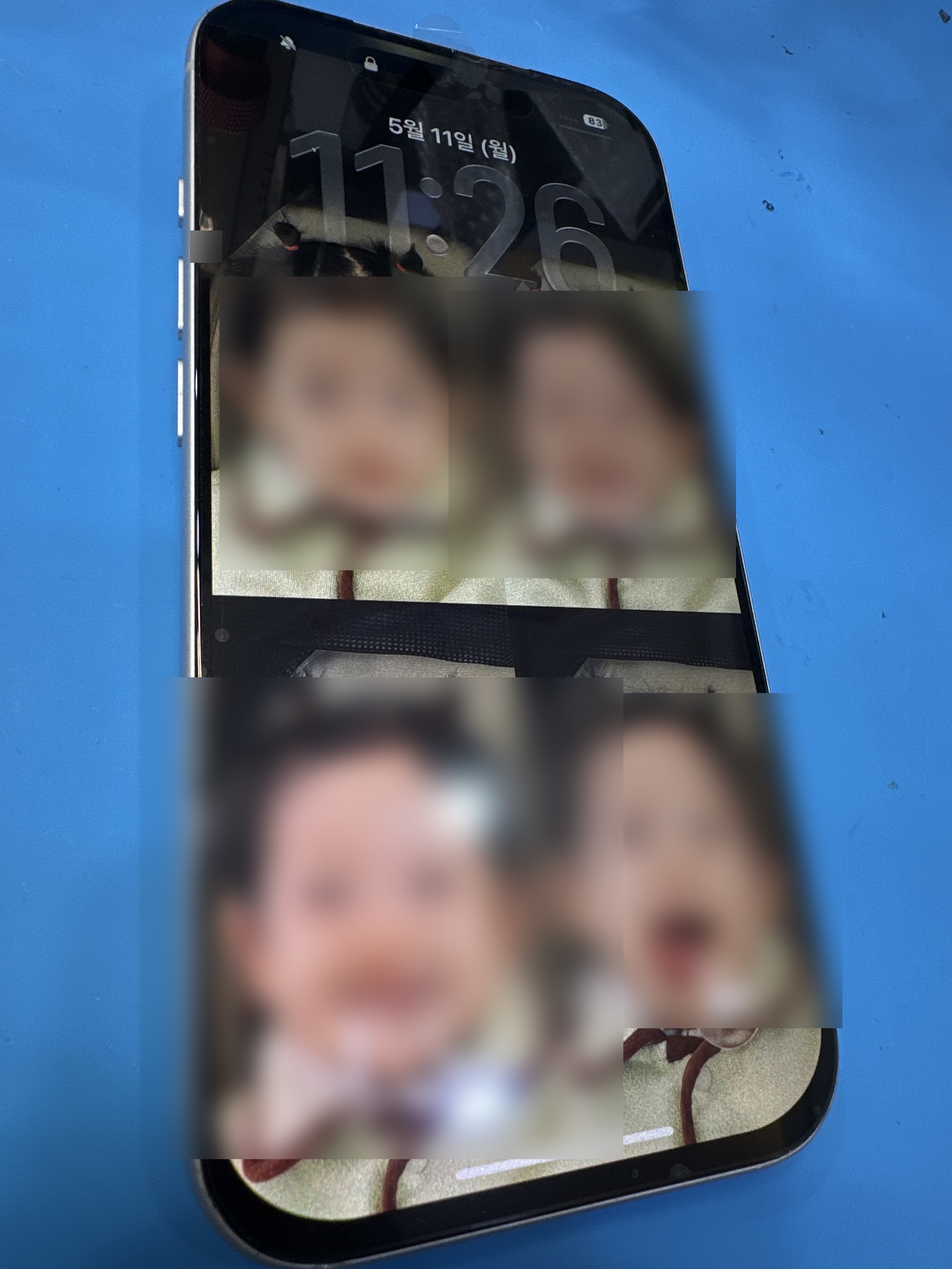
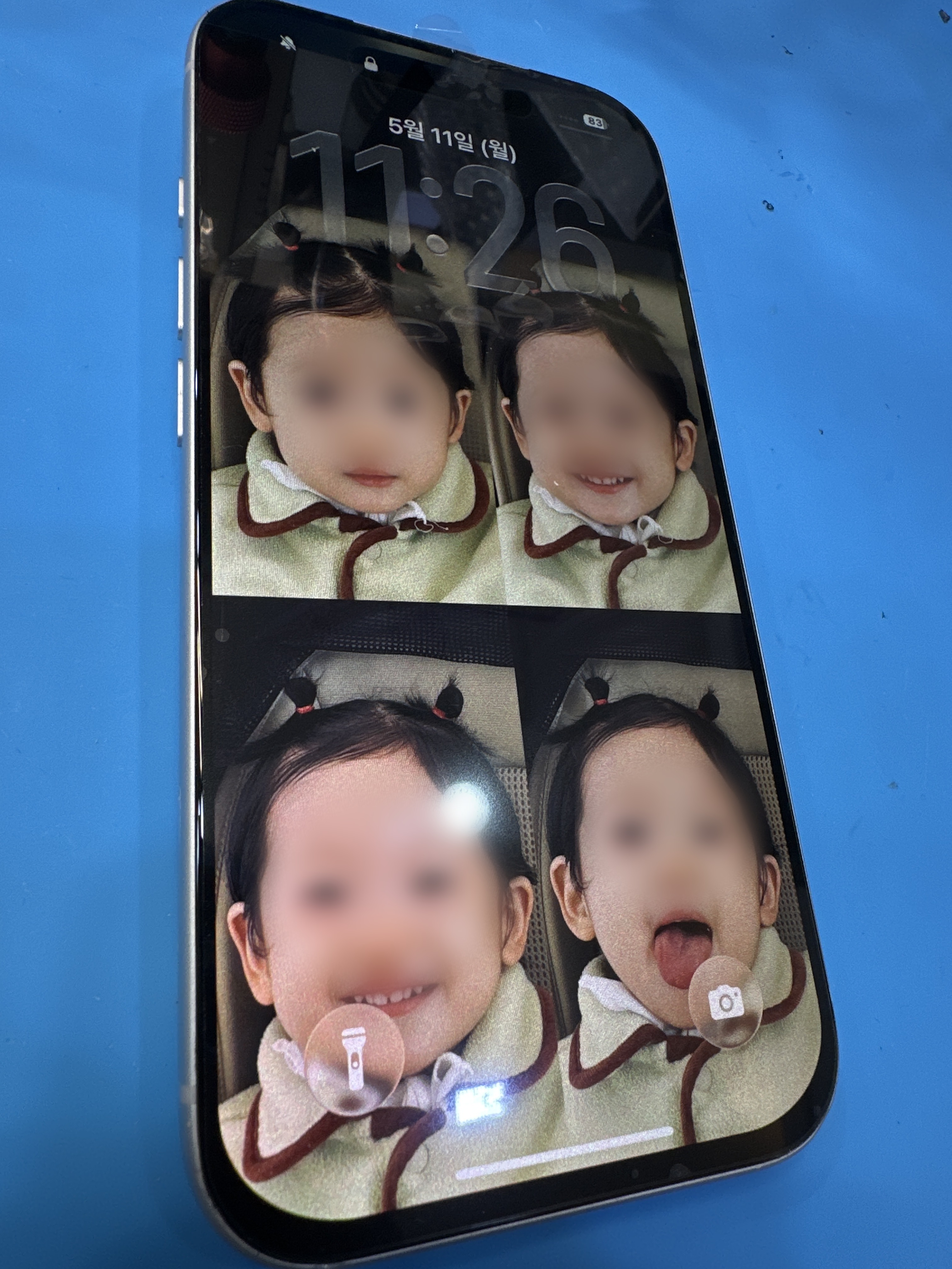
얼굴 마스킹 사각형 → 타원형 + 부드러운 가장자리
사장님: "사각형 박스 전체 모자이크는 수리가 잘못된 느낌. 얼굴 형태만
따서 동그랗게 모자이크"

수정 (mask_personal_info.py face mask 로직):
- 사각형 영역 전체 블러 → 타원형 마스크 + 부드러운 가장자리
- ImageDraw.ellipse로 박스 90% 차지 타원 마스크 생성
- mask GaussianBlur (박스 크기 비례 8~30px feather)로 가장자리 자연스럽게
- 원본 위에 블러된 버전을 타원 마스크로 합성 → 박스 모양 흔적 X

5/11 17프로 사진 즉시 재처리 (5명 얼굴 모두 타원형 블러)

향후 자동 적용:
- 새 사진 들어오면 모든 얼굴이 자연스러운 타원형으로 가려짐
- 박스 흔적 X — 수리 완료 사진의 시각적 품질 유지

diff --git a/scripts/mask_personal_info.py b/scripts/mask_personal_info.py
@@ -232,13 +232,24 @@ def mask_image(path, blur_radius: int = 38, conf_threshold: float = 0.2, model: 
                 x2 = min(W, fx + fw)
                 y2 = min(H, fy + fh)
                 if x2 > x1 and y2 > y1:
-                    # 박스 크기에 비례한 강한 블러 (큰 얼굴일수록 더 강하게)
+                    # 타원형 마스크 + 부드러운 가장자리 — 얼굴만 자연스럽게 가림
                     crop = img.crop((x1, y1, x2, y2))
                     box_size = max(x2 - x1, y2 - y1)
-                    # radius: 작은 얼굴 15px, 큰 얼굴(>300px) 30px
                     blur_radius = max(15, min(35, box_size // 12))
                     blurred = crop.filter(ImageFilter.GaussianBlur(radius=blur_radius))
-                    img.paste(blurred, (x1, y1, x2, y2))
+                    # 타원 마스크 생성 (얼굴 비율에 맞게)
+                    mask = Image.new('L', crop.size, 0)
+                    draw = ImageDraw.Draw(mask)
+                    cw, ch = crop.size
+                    # 타원이 박스 90% 차지 (양옆 5% 여유)
+                    draw.ellipse((cw*0.05, ch*0.05, cw*0.95, ch*0.95), fill=255)
+                    # 가장자리 부드럽게 (radius는 박스 크기 비례)
+                    feather = max(8, box_size // 20)
+                    mask = mask.filter(ImageFilter.GaussianBlur(radius=feather))
+                    # 원본 위에 블러된 버전을 타원 마스크로 합성
+                    crop_with_mask = crop.copy()
+                    crop_with_mask.paste(blurred, (0, 0), mask)
+                    img.paste(crop_with_mask, (x1, y1))
             img.save(path, 'JPEG', quality=92, optimize=True)
 
     # 교체 부품(parts) 사진은 더 적극적 OCR — 부품 공급사 라벨(PartsPick 등) 영문/한글 모두 잡기
